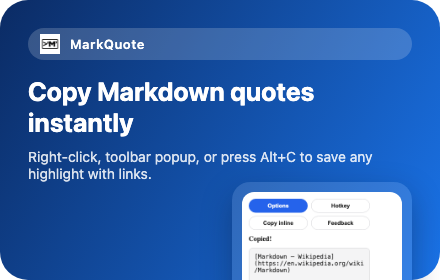
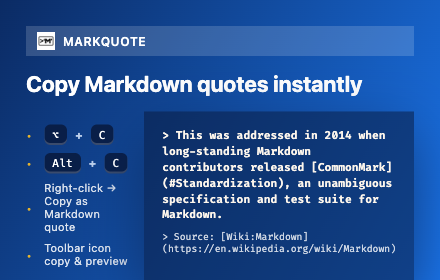
chore(storefront): polish promo small tile

diff --git a/docs/storefront/chrome-web-store/templates/promo-small.html b/docs/storefront/chrome-web-store/templates/promo-small.html
@@ -9,7 +9,7 @@
 
       body {
         margin: 0;
-        font-family: 'Inter', 'Segoe UI', system-ui, sans-serif;
+        font-family: "Inter", "Segoe UI", system-ui, sans-serif;
       }
 
       .tile {
@@ -17,54 +17,117 @@
         height: 280px;
         background: linear-gradient(120deg, #0b2b64, #1a73e8);
         color: #fff;
-        border-radius: 28px;
-        padding: 28px;
+        padding: 26px 26px 0;
         display: flex;
         flex-direction: column;
-        justify-content: space-between;
+        gap: 14px;
       }
 
       .brand {
         display: inline-flex;
         align-items: center;
-        gap: 10px;
-        background: rgba(255, 255, 255, 0.18);
-        border-radius: 16px;
-        padding: 6px 12px;
-        font-size: 13px;
+        gap: 8px;
+        background: rgba(255, 255, 255, 0.16);
+        padding: 6px 11px;
+        font-size: 12px;
         font-weight: 600;
-        letter-spacing: 0.04em;
+        letter-spacing: 0.05em;
+        text-transform: uppercase;
       }
 
       .brand img {
-        width: 20px;
-        height: 20px;
+        width: 18px;
+        height: 18px;
       }
 
       h1 {
-        margin: 16px 0 10px;
-        font-size: 26px;
-        line-height: 1.2;
-      }
-
-      p {
         margin: 0;
-        font-size: 14px;
-        opacity: 0.85;
+        font-size: 22px;
+        line-height: 1.25;
       }
 
-      .preview {
-        align-self: flex-end;
-        width: 180px;
-        background: rgba(255, 255, 255, 0.12);
-        border-radius: 18px;
-        padding: 10px;
-        box-shadow: 0 12px 30px rgba(15, 23, 42, 0.35);
+      .content {
+        flex: 1;
+        display: grid;
+        grid-template-columns: 1fr 1.05fr;
+        gap: 16px;
+        align-items: stretch;
       }
 
-      .preview img {
-        width: 100%;
-        border-radius: 12px;
+      .methods {
+        display: flex;
+        flex-direction: column;
+        gap: 8px;
+        justify-content: center;
+        margin: 0;
+        padding: 0;
+        list-style: none;
+        font-size: 11px;
+        letter-spacing: 0.02em;
+        color: rgba(255, 255, 255, 0.85);
+      }
+
+      .methods li {
+        display: flex;
+        align-items: center;
+        gap: 6px;
+      }
+
+      .methods li::before {
+        content: "•";
+        color: rgba(251, 191, 36, 0.9);
+        font-size: 13px;
+        line-height: 1;
+        margin-right: 6px;
+      }
+
+      .hotkey-line {
+        display: inline-flex;
+        align-items: center;
+        gap: 6px;
+      }
+
+      .hotkey-line kbd {
+        padding: 4px 8px;
+        border-radius: 6px;
+        background: rgba(8, 25, 61, 0.85);
+        color: #fff;
+        font-size: 11px;
+        box-shadow: inset 0 -2px 0 rgba(255, 255, 255, 0.2);
+      }
+
+      .markquote-key-plus {
+        color: rgba(219, 234, 254, 0.85);
+        font-weight: 700;
+        margin: 0 2px;
+      }
+
+      .quote-markdown {
+        background: rgba(8, 25, 61, 0.55);
+        padding: 16px 18px;
+        box-shadow: 0 24px 60px rgba(8, 25, 61, 0.55);
+        display: flex;
+        flex-direction: column;
+        gap: 8px;
+        font-family: "JetBrains Mono", "Fira Code", "SFMono-Regular", Menlo,
+          monospace;
+      }
+
+      .quote-markdown blockquote {
+        margin: 0;
+        font-size: 11px;
+        line-height: 1.45;
+        font-weight: 600;
+        color: #fdf6ec;
+        white-space: wrap;
+        word-break: break-word;
+      }
+
+      .quote-markdown cite {
+        margin: 0;
+        font-size: 9.5px;
+        color: rgba(255, 255, 255, 0.8);
+        font-style: normal;
       }
     </style>
   </head>
@@ -74,12 +137,34 @@
         <img src="{{ICON}}" alt="MarkQuote icon" />
         <span>MarkQuote</span>
       </div>
-      <div>
-        <h1>Copy Markdown quotes instantly</h1>
-        <p>Right-click, toolbar popup, or press {{HOTKEY}} to save any highlight with links.</p>
-      </div>
-      <div class="preview">
-        <img src="{{POPUP_IMAGE}}" alt="MarkQuote popup preview" />
+      <h1>Copy Markdown quotes instantly</h1>
+      <div class="content">
+        <ul class="methods">
+          <li>
+            <span class="hotkey-line">
+              <kbd>⌥</kbd><span class="markquote-key-plus">+</span><kbd>C</kbd>
+            </span>
+          </li>
+          <li>
+            <span class="hotkey-line">
+              <kbd>Alt</kbd><span class="markquote-key-plus">+</span
+              ><kbd>C</kbd>
+            </span>
+          </li>
+          <li>Right-click → Copy as Markdown quote</li>
+          <li>Toolbar icon copy &amp; preview</li>
+        </ul>
+        <div class="quote-markdown">
+          <blockquote>
+            &gt; This was addressed in 2014 when long-standing Markdown
+            contributors released [CommonMark](#Standardization), an unambiguous
+            specification and test suite for Markdown.
+          </blockquote>
+          <cite
+            >&gt; Source:
+            [Wiki:Markdown](https://en.wikipedia.org/wiki/Markdown)</cite
+          >
+        </div>
       </div>
     </div>
   </body>
